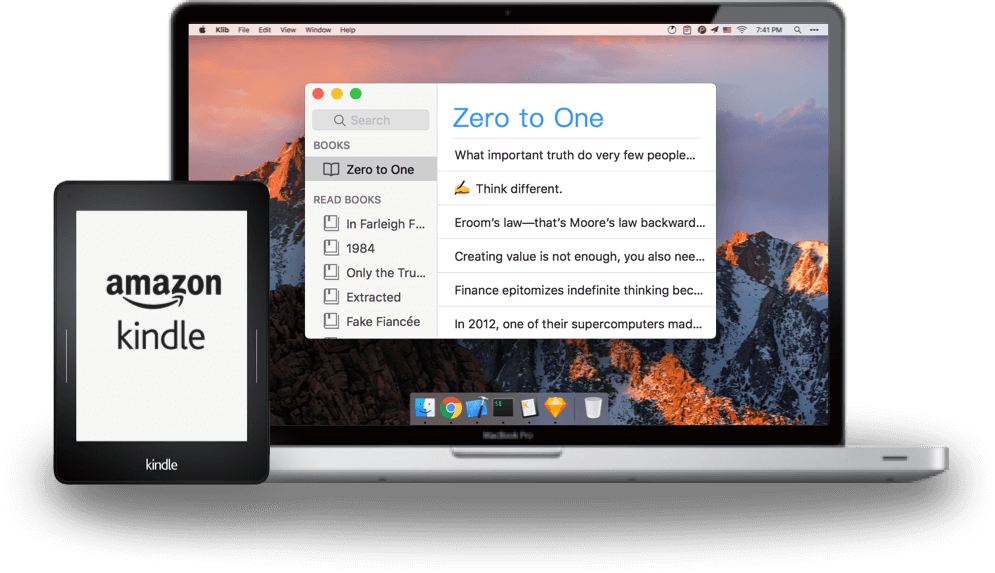
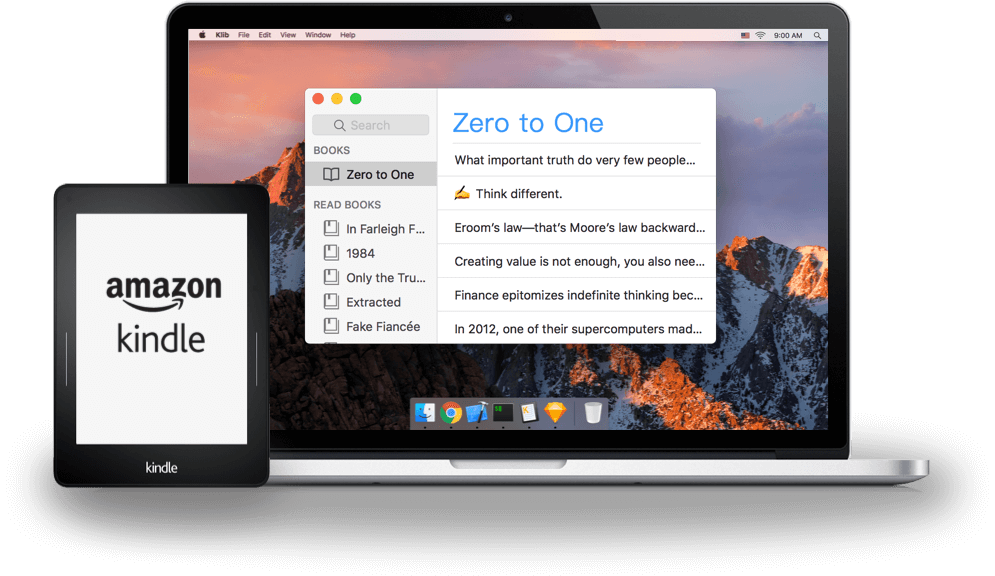
Update head image.

diff --git a/index.html b/index.html
@@ -99,7 +99,7 @@
       <div class="row">
         <div class="col-md-12">
           <div class="row">
-            <div class="col-md-6"><img class="center-block img-fluid d-block my-3" src="http://i.imgur.com/E2xyC9S.png" alt="Klib is a new way to manage Kindle highlights and notes on macOS. Could download Kindle annotation."></div>
+            <div class="col-md-6"><img class="center-block img-fluid d-block my-3" src="http://i.imgur.com/47TEJSl.png" alt="Klib is a new way to manage Kindle highlights and notes on macOS. Could download Kindle annotation."></div>
             <div class="col-md-6">
               <h1 class="text-head text-center">Klib</h1>
               <p class="text-content text-center">A new way to manage Kindle highlights.</p>
@@ -121,7 +121,7 @@
               <p class="text-content text-left">A new way to manage Kindle highlights.</p>
               <a href="https://itunes.apple.com/app/id1196268448?mt=12&amp;at=1000lv4R&amp;ct=klibme" target="_blank"><img class="center-block img-fluid d-block float-left my-5 mac-app-store" src="images/mac-app-store.svg" alt="Download on the Mac App Store"></a>
             </div>
-            <div class="col-md-7 py-2 my-5"><img class="center-block img-fluid d-block" src="http://i.imgur.com/E2xyC9S.png" alt="Klib is a new way to manage Kindle highlights and notes on macOS. Could let you view popular highlights and notes for Kindle as Kindle highlighter or highlighters."></div>
+            <div class="col-md-7 py-2 my-5"><img class="center-block img-fluid d-block" src="http://i.imgur.com/47TEJSl.png" alt="Klib is a new way to manage Kindle highlights and notes on macOS. Could let you view popular highlights and notes for Kindle as Kindle highlighter or highlighters."></div>
           </div>
         </div>
       </div>
